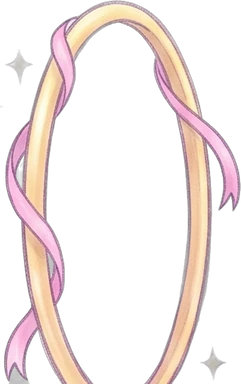
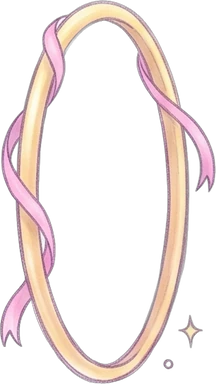
Build 370: «Полёт через кольца»: the ring is whole again (her «Кольцо обрезается снизу»): on the SYNTX sheet the ring reaches below its grid cell, the cell cut cropped its bottom; re-cut by its own bounds, ART_V 2 and flight.js?v=2 so phones load the new picture

Changed region(s): [[0.0, 0.0, 1.0, 1.0]]

diff --git a/js/minigame.js b/js/minigame.js
@@ -11,7 +11,7 @@ const STAR = [2000, 3500, 5500];  // score for 1/2/3 stars (calibrated with tool
 const MAX_MIN = 10;               // the best round pays 10 minutes of the school's income
 const BOOST = [0, 0, 5, 10];      // minutes of «Вдохновение» per stars
 const BOOST_CAP_MIN = 60;         // same cap as gifts (BOOST_MAX_MIN in game.js)
-import { runFlight, loadFlightArt } from './flight.js?v=1';   // bump when flight.js changes
+import { runFlight, loadFlightArt } from './flight.js?v=2';   // bump when flight.js changes
 const ART_V = 2;   // 2: pink crystal (her «два значка синего цвета, путаешь их»)
 
 export const ING = [   // ingredient tiles; art: assets/minigame/ing_<i>.png (falls back to the emoji until the art exists)
@@ -333,7 +333,7 @@ function showChooser() {   // the 🧪 pill: choose a mini-game (tries are share
     <h2>Мини-игры</h2>
     <p><b>Попытки с наградой: ${n} из ${CH_MAX}</b>${n < CH_MAX ? `<br><span class="muted">следующая через ${mmss(nextIn())}</span>` : ''}<br><span class="muted">общие для всех мини-игр</span></p>
     <button class="mg-pick" data-mgpick="p"><span class="mg-pi">${FLASK}</span><span><b>Зельеварка</b><br><span class="muted">три в ряд · рекорд недели ${num(m.wb || 0)}</span></span></button>
-    <button class="mg-pick" data-mgpick="f"><span class="mg-pi"><img src="assets/flight/ring.webp?v=1" alt=""></span><span><b>Полёт через кольца</b><br><span class="muted">лети до первой тучки · рекорд недели ${num(f.wb || 0)}</span></span></button>
+    <button class="mg-pick" data-mgpick="f"><span class="mg-pi"><img src="assets/flight/ring.webp?v=2" alt=""></span><span><b>Полёт через кольца</b><br><span class="muted">лети до первой тучки · рекорд недели ${num(f.wb || 0)}</span></span></button>
     <button class="btn wide ghost" data-mgback>В школу</button>
   </div>`);
 }
@@ -660,7 +660,7 @@ function showFlightStart() {
   if (FL) { FL.h.stop(); FL = null; }
   const n = charges(), f = fl(), w = flyerList(), cur = w.find((x) => x.k === mg().fly) || w[0];
   root.innerHTML = A.emojiHtml(`<div class="mg-card">
-    <div class="mg-pot"><img class="mgi" src="assets/flight/ring.webp?v=1" alt="" style="width:44px;height:70px"></div><h2>Полёт через кольца</h2>
+    <div class="mg-pot"><img class="mgi" src="assets/flight/ring.webp?v=2" alt="" style="width:44px;height:70px"></div><h2>Полёт через кольца</h2>
     <p>Нажми и держи палец — ученик взлетает, отпусти — плавно опускается. Пролетай сквозь кольца, собирай искорки и не задевай тучки: первая тучка — конец полёта.</p>
     <p class="muted">Кольцо +10, точно по центру ещё +5, искорка +2. Золотое перо спасает от одной тучки.</p>
     <div class="mg-bh">Кто летит</div>
@@ -676,7 +676,7 @@ function startFlight() {
   const rewarded = charges() > 0;
   if (rewarded) { const m = mg(); if (m.ch >= CH_MAX) m.t = Date.now(); m.ch--; }
   fl().n++; A.save();
-  root.innerHTML = A.emojiHtml(`<div class="mg-top"><button class="mg-x" data-mgx aria-label="Закончить">✕</button><div class="mg-chip"><img class="mgi" src="assets/flight/ring.webp?v=1" alt="" style="width:14px;height:22px"> <span class="fl-r">0</span></div><div class="mg-chip score">✨ <span class="fl-s">0</span></div></div>
+  root.innerHTML = A.emojiHtml(`<div class="mg-top"><button class="mg-x" data-mgx aria-label="Закончить">✕</button><div class="mg-chip"><img class="mgi" src="assets/flight/ring.webp?v=2" alt="" style="width:14px;height:22px"> <span class="fl-r">0</span></div><div class="mg-chip score">✨ <span class="fl-s">0</span></div></div>
     <div class="fl-box"></div>`);
   const box = root.querySelector('.fl-box');
   FL = { live: true, rewarded, h: null };

diff --git a/js/game.js b/js/game.js
@@ -2,11 +2,11 @@
 import {
   OFFLINE_CAP_SEC, MAX_DESKS, MAX_ITEM_LEVEL, MAX_TEACHER_LEVEL, MAX_TIME_LEVEL,
   CLASSES, SPECIES, NAMES, MISSIONS, WORLDS, WORLD, META,
-} from './data.js?v=369';
-import { EMOJI_RE, emojiImage, preloadEmoji, watchEmoji, emojiHtml } from './emoji.js?v=369';
-import { initMinigame } from './minigame.js?v=369';
-import { initChests } from './chests.js?v=369';
-import { initAvatar } from './avatar.js?v=369';
+} from './data.js?v=370';
+import { EMOJI_RE, emojiImage, preloadEmoji, watchEmoji, emojiHtml } from './emoji.js?v=370';
+import { initMinigame } from './minigame.js?v=370';
+import { initChests } from './chests.js?v=370';
+import { initAvatar } from './avatar.js?v=370';
 // mini-game «Зельеварка» (match-3, js/minigame.js): a pill on the main screen, its own overlay; the school keeps living under it
 const MG = initMinigame({ state: () => S, earn: (n) => earn(n), save: () => save(), toast: (t) => toast(t), fmt: (n) => fmt(n), emojiHtml, emojiImage,
   audioOut: () => { if (!sfxOn() || document.hidden) return null; const c = audio(); return c && c.state === 'running' ? { c, out: AOUT } : null; },
@@ -22,7 +22,7 @@ const CHESTS = initChests({ state: () => S, earn: (n) => earn(n), save: () => sa
 const SAVE_KEY = WORLD === 1 ? 'magicschool.save.v2' : 'magicschool.save.v2.w' + WORLD;   // every world keeps its own save
 const saveKeyOf = (w) => (w === 1 ? 'magicschool.save.v2' : 'magicschool.save.v2.w' + w);
 const VERSION = '0.9';
-const BUILD = 369;   // keep equal to the ?v= number in index.html
+const BUILD = 370;   // keep equal to the ?v= number in index.html
 const $ = (s, r = document) => r.querySelector(s);
 const rnd = (a) => a[Math.floor(Math.random() * a.length)];
 

diff --git a/index.html b/index.html
@@ -12,7 +12,7 @@
 <link rel="manifest" href="manifest.webmanifest">
 <link rel="apple-touch-icon" href="icons/icon-180.png?v=2">
 <link rel="icon" href="icons/icon-192.png?v=2">
-<link rel="stylesheet" href="style.css?v=369">
+<link rel="stylesheet" href="style.css?v=370">
 <script>/* iOS home-screen app: innerHeight / 100% / 100dvh are short by the status bar, a strip stayed at the bottom (her screenshots, builds 200-203); use the real screen height */
 (function(){function fit(){if(!(navigator.standalone||matchMedia('(display-mode: standalone)').matches))return;var h=Math.max(window.innerHeight,(Math.abs(window.orientation||0)===90?screen.width:screen.height));var r=document.documentElement;r.style.height=h+'px';if(document.body){document.body.style.height=h+'px';document.body.style.bottom='auto';}}fit();addEventListener('DOMContentLoaded',fit);addEventListener('resize',fit);addEventListener('orientationchange',function(){setTimeout(fit,300);});})();</script>
 </head>
@@ -72,6 +72,6 @@ setTimeout(function(){ if (window.__booted) return; var d=document.createElement
   d.querySelector('button').onclick=function(){ location.reload(); }; document.body.appendChild(d); }, 12000);
 if(!CanvasRenderingContext2D.prototype.roundRect){CanvasRenderingContext2D.prototype.roundRect=function(x,y,w,h){this.rect(x,y,w,h);};}
 </script>
-<script type="module" src="js/game.js?v=369"></script>
+<script type="module" src="js/game.js?v=370"></script>
 </body>
 </html>

diff --git a/js/flight.js b/js/flight.js
@@ -3,7 +3,7 @@
 // Only the gameplay lives here: runFlight(box, opts) draws into its own canvas and calls opts.onEnd(result) once.
 // The shell (start screen, tries, reward, weekly table) stays in minigame.js.
 
-const ART_V = 1;
+const ART_V = 2;   // 2: ring re-cut (her «Кольцо обрезается снизу»)
 const ART = ['ring', 'storm1', 'storm2', 'spark', 'cloud1', 'cloud2', 'feather', 'castle', 'rainbow'];
 const imgs = {};
 export function loadFlightArt() {

diff --git a/js/emoji.js b/js/emoji.js
@@ -1,6 +1,6 @@
 // One emoji look on every device: emoji characters are replaced by bundled Twemoji pictures
 // (CC-BY 4.0, https://github.com/jdecked/twemoji), both in the page (DOM) and on the canvas.
-import { EMOJI_FILES } from './emoji-set.js?v=369';
+import { EMOJI_FILES } from './emoji-set.js?v=370';
 
 export const EMOJI_RE = /\p{Extended_Pictographic}(?:|\p{Extended_Pictographic}?|[\u{1F3FB}-\u{1F3FF}])*/gu;
 
